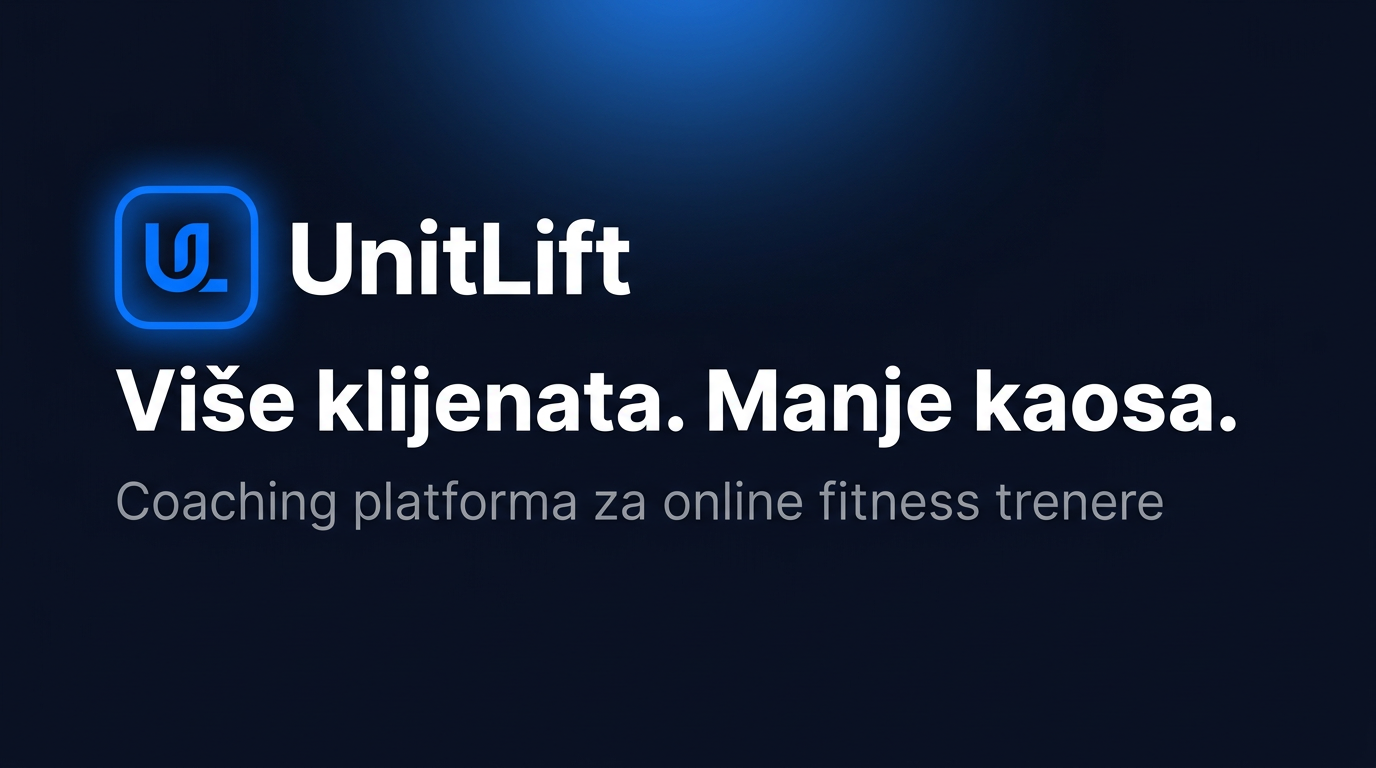
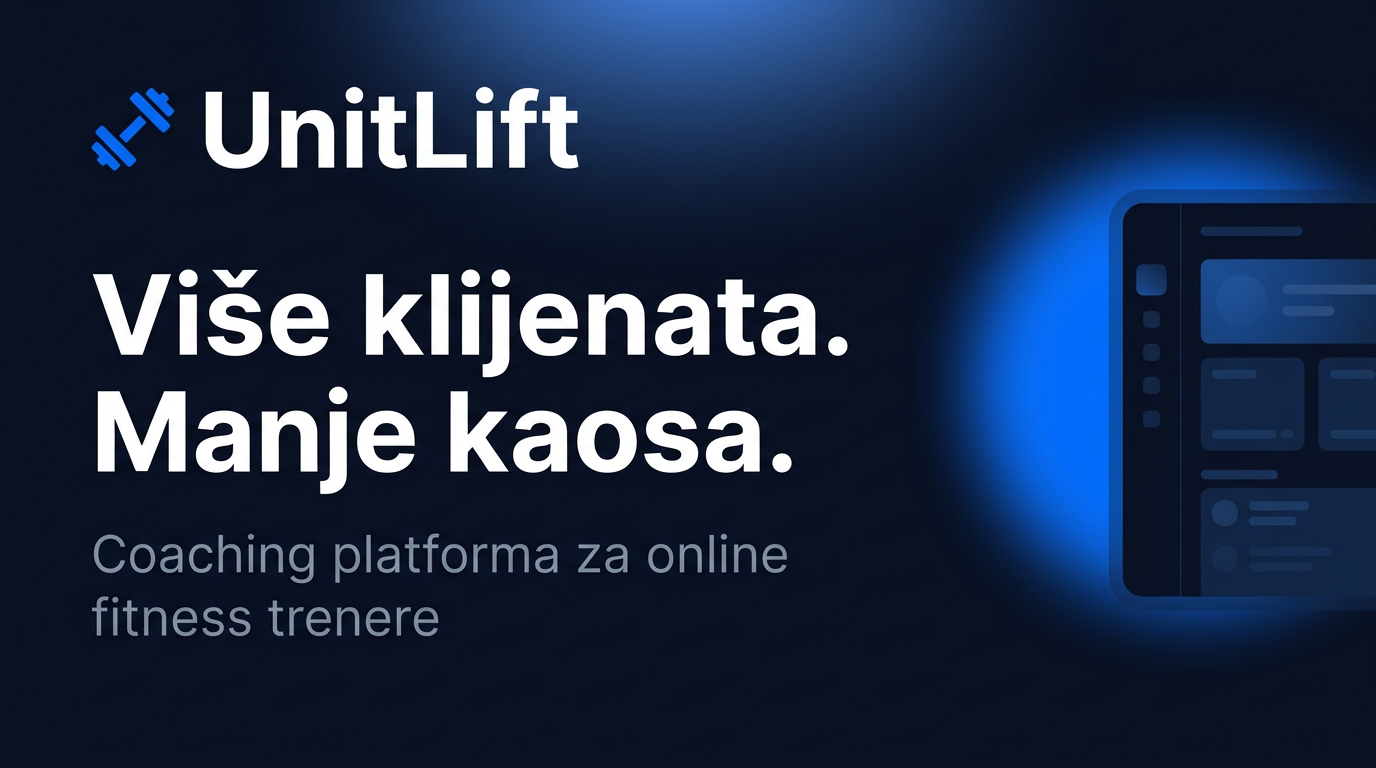
Landing v3: pricing cards equal height + muted inherited feats, white /cijene, new OG image, mobile UX fixes, design refresh, copywriting update, blog author fix
Made-with: Cursor

diff --git a/app/globals.css b/app/globals.css
@@ -45,7 +45,7 @@ nav{position:fixed;top:0;left:0;right:0;z-index:200;padding:0 5%;height:66px;dis
 
 /* HERO */
 .hero{position:relative;min-height:100vh;display:flex;flex-direction:column;align-items:center;justify-content:center;padding:110px 5% 70px;text-align:center;overflow:hidden}
-.hbg{position:absolute;inset:0;background:radial-gradient(ellipse 70% 55% at 50% 0%,rgba(0,102,255,.22),transparent 70%),radial-gradient(ellipse 35% 35% at 15% 60%,rgba(0,170,255,.07),transparent 60%),var(--bd);z-index:0}
+.hbg{position:absolute;inset:0;background:radial-gradient(ellipse 80% 60% at 50% -5%,rgba(0,102,255,.28),transparent 65%),radial-gradient(ellipse 40% 40% at 85% 30%,rgba(0,170,255,.09),transparent 55%),radial-gradient(ellipse 30% 30% at 10% 70%,rgba(0,85,238,.07),transparent 55%),var(--bd);z-index:0}
 .hgrid{position:absolute;inset:0;background-image:linear-gradient(rgba(255,255,255,.025) 1px,transparent 1px),linear-gradient(90deg,rgba(255,255,255,.025) 1px,transparent 1px);background-size:52px 52px;mask-image:radial-gradient(ellipse 80% 65% at 50% 25%,black,transparent);z-index:0}
 .hero>*{position:relative;z-index:1}
 .hbadge{display:inline-flex;align-items:center;gap:8px;background:rgba(0,102,255,.13);border:1px solid rgba(0,102,255,.35);border-radius:100px;padding:7px 18px;font-size:.8rem;color:#66aaff;font-weight:600;margin-bottom:28px;animation:fu .6s ease both}
@@ -155,9 +155,9 @@ nav{position:fixed;top:0;left:0;right:0;z-index:200;padding:0 5%;height:66px;dis
 
 /* STEPS */
 .steps{display:grid;grid-template-columns:repeat(3,1fr);gap:36px;margin-top:60px;position:relative}
-.steps::before{content:'';position:absolute;top:36px;left:22%;right:22%;height:1px;background:linear-gradient(90deg,var(--ba),#8899ff,var(--ba));opacity:.25}
+.steps::before{content:'';position:absolute;top:40px;left:20%;right:20%;height:2px;background:linear-gradient(90deg,transparent,var(--ba),#8899ff,var(--ba),transparent);opacity:.35}
 .step{text-align:center}
-.snum{width:68px;height:68px;border-radius:50%;background:linear-gradient(135deg,var(--ba),var(--bb));display:flex;align-items:center;justify-content:center;font-size:1.4rem;font-weight:800;margin:0 auto 22px;box-shadow:0 8px 28px rgba(0,102,255,.38);position:relative;z-index:1}
+.snum{width:80px;height:80px;border-radius:50%;background:linear-gradient(135deg,var(--ba),var(--bb));display:flex;align-items:center;justify-content:center;font-size:1.7rem;font-weight:800;margin:0 auto 22px;box-shadow:0 8px 32px rgba(0,102,255,.45),0 0 0 8px rgba(0,102,255,.08);position:relative;z-index:1}
 .stl{font-size:1.05rem;font-weight:700;color:var(--lt);margin-bottom:10px}
 .sdesc{font-size:.87rem;color:var(--ls);line-height:1.7}
 
@@ -172,12 +172,12 @@ nav{position:fixed;top:0;left:0;right:0;z-index:200;padding:0 5%;height:66px;dis
 .fdesc{font-size:.86rem;color:var(--ls);line-height:1.65}
 
 /* PRICING */
-.pg{display:grid;grid-template-columns:repeat(3,1fr);gap:22px;margin-top:60px;align-items:start}
-.pc{border-radius:20px;padding:40px 34px;position:relative;transition:transform .3s}
-.pc:hover{transform:translateY(-3px)}
+.pg{display:grid;grid-template-columns:repeat(3,1fr);gap:22px;margin-top:60px;align-items:stretch}
+.pc{border-radius:20px;padding:40px 34px;position:relative;transition:transform .3s,box-shadow .3s;display:flex;flex-direction:column}
+.pc:hover{transform:translateY(-4px);box-shadow:0 24px 60px rgba(0,0,0,.3)}
 .pc.basic{background:var(--w06);border:1px solid var(--w10)}
-.pc.pop{background:linear-gradient(140deg,rgba(0,102,255,.2),rgba(0,85,238,.13));border:1px solid rgba(0,102,255,.45);box-shadow:0 0 50px rgba(0,102,255,.18);transform:scale(1.035)}
-.pc.pop:hover{transform:scale(1.035) translateY(-3px)}
+.pc.pop{background:linear-gradient(140deg,rgba(0,102,255,.22),rgba(0,85,238,.14));border:1px solid rgba(0,102,255,.55);box-shadow:0 0 60px rgba(0,102,255,.22),0 0 0 1px rgba(0,102,255,.2);transform:scale(1.035)}
+.pc.pop:hover{transform:scale(1.035) translateY(-4px);box-shadow:0 0 80px rgba(0,102,255,.3),0 24px 60px rgba(0,0,0,.35)}
 .pc.elite{background:var(--w06);border:1px solid var(--w10)}
 .popbdg{position:absolute;top:-13px;left:50%;transform:translateX(-50%);background:linear-gradient(90deg,var(--ba),var(--bb));color:#fff;font-size:.7rem;font-weight:700;padding:5px 17px;border-radius:20px;white-space:nowrap;letter-spacing:.05em;text-transform:uppercase;z-index:1}
 .ptier{font-size:.75rem;font-weight:700;letter-spacing:.1em;text-transform:uppercase;color:#8899ff;margin-bottom:10px}
@@ -186,9 +186,11 @@ nav{position:fixed;top:0;left:0;right:0;z-index:200;padding:0 5%;height:66px;dis
 .pper{font-size:.8rem;color:var(--w50);margin-bottom:7px}
 .psave{display:inline-block;font-size:.7rem;color:#44cc88;background:rgba(68,204,136,.1);border:1px solid rgba(68,204,136,.28);padding:2px 10px;border-radius:20px;margin-bottom:22px}
 .pdiv{height:1px;background:var(--w10);margin:20px 0}
-.pfeats{list-style:none;display:flex;flex-direction:column;gap:9px;margin-bottom:28px}
+.pfeats{list-style:none;display:flex;flex-direction:column;gap:9px;margin-bottom:28px;flex:1}
 .pfeats li{display:flex;align-items:flex-start;gap:9px;font-size:.86rem;color:var(--w70);line-height:1.4}
+.pfeat-muted{opacity:.38}
 .pchk{width:17px;height:17px;border-radius:50%;background:rgba(68,204,136,.13);border:1px solid rgba(68,204,136,.35);display:flex;align-items:center;justify-content:center;font-size:.58rem;color:#44cc88;flex-shrink:0;margin-top:1px}
+.pchk-muted{background:rgba(255,255,255,.06);border-color:rgba(255,255,255,.15);color:rgba(255,255,255,.35)}
 
 /* BILLING TOGGLE */
 .billing-toggle{display:flex;align-items:center;justify-content:center;gap:12px;margin-top:28px}
@@ -200,13 +202,17 @@ nav{position:fixed;top:0;left:0;right:0;z-index:200;padding:0 5%;height:66px;dis
 .toggle-lbl.active{color:var(--w)}
 
 /* TESTIMONIALS CAROUSEL */
+/* Section background override for testimonials — subtle visual separation */
+#recenzije.sl{background:linear-gradient(180deg,#eceffe 0%,#f5f7ff 100%);position:relative}
+#recenzije.sl::before{content:'';position:absolute;inset:0;background-image:radial-gradient(circle,rgba(0,102,255,.06) 1px,transparent 1px);background-size:28px 28px;pointer-events:none}
 .tcar-wrap{margin-top:44px}
 .tcar-vp{overflow:hidden;padding:8px 0 14px;cursor:grab;user-select:none}
 .tcar-vp:active{cursor:grabbing}
 /* Track: left padding aligns first visible card with .con; slides overflow to the right */
 .tcar-track{display:flex;padding-left:5%}
 .tcar-slide{box-sizing:border-box;padding:0 9px;flex-shrink:0}
-.tcard{background:#fff;border:1px solid var(--lb);border-radius:var(--r);padding:26px 24px;position:relative;height:100%;box-shadow:0 2px 14px rgba(0,102,255,.05)}
+.tcard{background:#fff;border:1px solid var(--lb);border-radius:var(--r);padding:26px 24px;position:relative;height:100%;box-shadow:0 4px 20px rgba(0,102,255,.08);transition:box-shadow .25s,transform .25s}
+.tcard:hover{box-shadow:0 8px 32px rgba(0,102,255,.14);transform:translateY(-2px)}
 .tcard::before{content:'\201C';position:absolute;top:12px;right:18px;font-size:4rem;line-height:1;color:rgba(0,102,255,.07);font-weight:800}
 .tbadge-row{display:flex;align-items:center;justify-content:space-between;margin-bottom:14px}
 .tbadge{display:inline-flex;align-items:center;padding:3px 10px;border-radius:100px;font-size:.73rem;font-weight:700;letter-spacing:.02em}
@@ -237,8 +243,9 @@ nav{position:fixed;top:0;left:0;right:0;z-index:200;padding:0 5%;height:66px;dis
 .faq-item.open .faq-a{display:block}
 
 /* CTA */
-.ctasec{background:linear-gradient(135deg,var(--bm),var(--bdk));border-top:1px solid rgba(0,102,255,.28);border-bottom:1px solid rgba(0,102,255,.28);padding:88px 5%;text-align:center;position:relative;overflow:hidden}
-.ctasec::before{content:'';position:absolute;inset:0;background:radial-gradient(ellipse 55% 75% at 50% 50%,rgba(0,102,255,.28),transparent 70%)}
+.ctasec{background:linear-gradient(150deg,var(--bm),var(--bdk) 60%,#061030);border-top:1px solid rgba(0,102,255,.35);border-bottom:1px solid rgba(0,102,255,.35);padding:96px 5%;text-align:center;position:relative;overflow:hidden}
+.ctasec::before{content:'';position:absolute;inset:0;background:radial-gradient(ellipse 60% 80% at 50% 50%,rgba(0,102,255,.32),transparent 68%)}
+.ctasec::after{content:'';position:absolute;inset:0;background-image:linear-gradient(rgba(255,255,255,.018) 1px,transparent 1px),linear-gradient(90deg,rgba(255,255,255,.018) 1px,transparent 1px);background-size:52px 52px;mask-image:radial-gradient(ellipse 70% 70% at 50% 50%,black,transparent)}
 .ctasec>*{position:relative;z-index:1}
 .ctat{font-size:clamp(2rem,4vw,3.2rem);font-weight:800;letter-spacing:-1px;line-height:1.08;margin-bottom:18px}
 .ctas{font-size:1.05rem;color:var(--w50);max-width:460px;margin:0 auto 36px;line-height:1.7}
@@ -343,15 +350,24 @@ footer{background:#060d1e;border-top:1px solid var(--w06);padding:60px 5% 36px}
   .ctabtns .btn{width:100%;min-height:48px}
   .con{padding:0 4%}
   .sp{padding:64px 0}
-  .mob-phones{flex-direction:column;align-items:center}
-  .mob-phone.trainer,.mob-phone.client{transform:none;margin:0;width:200px}
+  /* Phone mockup — single phone on mobile */
+  .mob-phone.client{display:none}
+  .mob-phone.trainer{transform:none;margin:0;width:min(220px,70vw)}
   .mob-store-row{flex-direction:column}
   .mob-store-btn{min-height:48px;width:100%;justify-content:center}
-  /* Footer mobile */
+  /* Footer mobile — improved layout */
   .fg2{grid-template-columns:1fr 1fr}
   .fg2>div:first-child{grid-column:1/-1}
+  .fg2>div:last-child{grid-column:1/-1}
+  .fg2>div:last-child .fls{flex-direction:row;flex-wrap:wrap;gap:6px 20px}
   .fsocial{justify-content:flex-start}
   .payrow{justify-content:flex-start;flex-wrap:wrap;gap:8px}
+  footer{padding:40px 5% 28px}
+  .fbot{padding-top:20px;gap:12px}
+  .fcopy{font-size:.7rem}
+  /* Trust bar — 2x2 grid */
+  .trust-bar{display:grid;grid-template-columns:1fr 1fr;gap:14px 20px;justify-items:start;padding:20px 5%}
+  .ti{font-size:.76rem}
   /* Testimonials mobile — static scroll */
   .tcar-vp{overflow:visible}
   .tcar-track{flex-direction:column;padding-left:0;gap:14px}

diff --git a/components/legal/PricingPage.tsx b/components/legal/PricingPage.tsx
@@ -48,47 +48,49 @@ export default function PricingPage() {
     }
   }
 
+  const baseFeats = isHr
+    ? ['Planovi treninga i prehrane', 'Check-in praćenje s automatskim podsjetnicima', 'Chat s klijentima', 'Mobilna app za klijente (besplatna)', 'Vidi odmah tko je platio i koliko si zaradio', 'Prati što ti je važno — koraci, san, težina, raspoloženje']
+    : ['Training and nutrition plans', 'Check-in tracking with automatic reminders', 'Client chat', 'Client mobile app (free)', 'See instantly who paid and how much you earned', 'Track what matters — steps, sleep, weight, mood']
+
   const tiers = isHr
     ? [
         {
           name: 'Starter', price: 29, clients: 'Do 15 klijenata', popular: false,
-          feats: ['Do 15 aktivnih klijenata', 'Planovi treninga i prehrane', 'Check-in praćenje s automatskim podsjetnicima', 'Chat s klijentima', 'Mobilna app za klijente (besplatna)', 'Financijski pregled i praćenje plaćanja', 'Prilagodljivi parametri praćenja'],
-          btn: 'Kreni besplatno',
+          feats: ['Do 15 aktivnih klijenata', 'Planovi treninga i prehrane', 'Check-in praćenje s automatskim podsjetnicima', 'Chat s klijentima', 'Mobilna app za klijente (besplatna)', 'Vidi odmah tko je platio i koliko si zaradio', 'Prati što ti je važno — koraci, san, težina, raspoloženje'],
+          btn: 'Kreni besplatno', note: null,
         },
         {
           name: 'Pro', price: 59, clients: 'Do 50 klijenata', popular: true,
-          feats: ['Do 50 aktivnih klijenata', 'Sve iz Starter plana', 'Vlastiti logo i boje u klijentskoj app', 'Prioritetna podrška'],
-          btn: 'Kreni besplatno',
+          feats: ['Do 50 aktivnih klijenata', 'Vlastiti logo i boje u klijentskoj app'],
+          btn: 'Kreni besplatno', note: null,
         },
         {
           name: 'Scale', price: 99, clients: 'Do 150 klijenata', popular: false,
-          feats: ['Do 150 aktivnih klijenata', 'Sve iz Pro plana', 'Više od 150 klijenata: +€10/mj za svakih dodatnih 25'],
-          btn: 'Kreni besplatno',
-          note: 'Više od 150 klijenata? +€10/mj za svakih dodatnih 25.',
+          feats: ['Do 150 aktivnih klijenata', 'Vlastiti logo i boje u klijentskoj app'],
+          btn: 'Kreni besplatno', note: 'Više od 150 klijenata? +€10/mj za svakih dodatnih 25.',
         },
       ]
     : [
         {
           name: 'Starter', price: 29, clients: 'Up to 15 clients', popular: false,
-          feats: ['Up to 15 active clients', 'Training and nutrition plans', 'Check-in tracking with automatic reminders', 'Client chat', 'Client mobile app (free)', 'Financial overview and payment tracking', 'Custom tracking parameters'],
-          btn: 'Get started free',
+          feats: ['Up to 15 active clients', 'Training and nutrition plans', 'Check-in tracking with automatic reminders', 'Client chat', 'Client mobile app (free)', 'See instantly who paid and how much you earned', 'Track what matters — steps, sleep, weight, mood'],
+          btn: 'Get started free', note: null,
         },
         {
           name: 'Pro', price: 59, clients: 'Up to 50 clients', popular: true,
-          feats: ['Up to 50 active clients', 'Everything in Starter', 'Custom logo and colors in client app', 'Priority support'],
-          btn: 'Get started free',
+          feats: ['Up to 50 active clients', 'Custom logo and colors in client app'],
+          btn: 'Get started free', note: null,
         },
         {
           name: 'Scale', price: 99, clients: 'Up to 150 clients', popular: false,
-          feats: ['Up to 150 active clients', 'Everything in Pro', 'More than 150 clients: +€10/mo per additional 25'],
-          btn: 'Get started free',
-          note: 'More than 150 clients? +€10/mo for every additional 25.',
+          feats: ['Up to 150 active clients', 'Custom logo and colors in client app'],
+          btn: 'Get started free', note: 'More than 150 clients? +€10/mo for every additional 25.',
         },
       ]
 
   const advantages = isHr
-    ? ['Check-in automatizacija', 'Mobilna app za klijente (besplatna)', 'Financijski pregled', 'Vlastiti branding', 'Sve u jednom (nema WhatsApp, Excel, PDF)']
-    : ['Check-in automation', 'Client mobile app (free)', 'Financial overview', 'Own branding', 'All-in-one (no WhatsApp, Excel, PDFs)']
+    ? ['Klijenti dobiju podsjetnik — ti ne moraš ništa slati ručno', 'Mobilna app za klijente (besplatna)', 'Vidi odmah tko je platio i koliko si zaradio', 'Vlastiti branding (Pro i Scale)', 'Planovi, plaćanja i komunikacija — na jednom mjestu']
+    : ['Clients get reminders — you never send anything manually', 'Client mobile app (free)', 'See instantly who paid and how much you earned', 'Custom branding (Pro & Scale)', 'Plans, payments and communication — in one place']
 
   return (
     <div className="legal-root">
@@ -151,15 +153,15 @@ export default function PricingPage() {
       </div>
 
       {/* Body */}
-      <div style={{ background: 'var(--bdk)', padding: '52px 5% 80px', flex: 1 }}>
+      <div style={{ background: '#f5f7ff', padding: '52px 5% 80px', flex: 1 }}>
         <div style={{ maxWidth: '1100px', margin: '0 auto' }}>
 
           {/* Intro */}
           <div style={{ textAlign: 'center', marginBottom: '48px' }}>
-            <h2 style={{ fontSize: 'clamp(1.5rem,2.8vw,2.2rem)', fontWeight: 800, color: '#fff', marginBottom: '12px', letterSpacing: '-.5px' }}>
+            <h2 style={{ fontSize: 'clamp(1.5rem,2.8vw,2.2rem)', fontWeight: 800, color: 'var(--lt)', marginBottom: '12px', letterSpacing: '-.5px' }}>
               {isHr ? 'Koji plan odgovara tebi?' : 'Which plan suits you?'}
             </h2>
-            <p style={{ color: 'rgba(255,255,255,.6)', fontSize: '1rem', maxWidth: '520px', margin: '0 auto', lineHeight: 1.7 }}>
+            <p style={{ color: 'var(--ls)', fontSize: '1rem', maxWidth: '520px', margin: '0 auto', lineHeight: 1.7 }}>
               {isHr
                 ? 'Svi planovi uključuju iste funkcije — jedina razlika je broj klijenata koje možeš voditi.'
                 : 'All plans include the same features — the only difference is the number of clients you can manage.'}
@@ -179,6 +181,12 @@ export default function PricingPage() {
                   {tier.feats.map((feat, j) => (
                     <li key={j}><span className="pchk">✓</span>{feat}</li>
                   ))}
+                  {i > 0 && baseFeats.map((feat, j) => (
+                    <li key={`base-${j}`} className="pfeat-muted">
+                      <span className="pchk pchk-muted">✓</span>
+                      {feat}
+                    </li>
+                  ))}
                 </ul>
                 <button
                   onClick={() => handleCheckout(PLANS[i])}
@@ -197,13 +205,13 @@ export default function PricingPage() {
             ))}
           </div>
 
-          <p style={{ textAlign: 'center', marginTop: '28px', color: 'rgba(255,255,255,.5)', fontSize: '.83rem' }}>
+          <p style={{ textAlign: 'center', marginTop: '28px', color: 'var(--ls)', fontSize: '.83rem' }}>
             {isHr ? 'Svi planovi uključuju 14-dnevno besplatno probno razdoblje. Kartica potrebna za aktivaciju.' : 'All plans include a 14-day free trial. Card required for activation.'}
           </p>
 
           {/* Advantages */}
-          <div className="pp-advantages">
-            <h2 className="pp-adv-h2">
+          <div className="pp-advantages" style={{ background: '#fff', border: '1px solid var(--lb)' }}>
+            <h2 className="pp-adv-h2" style={{ color: 'var(--lt)' }}>
               {isHr ? 'Zašto treneri biraju UnitLift' : 'Why coaches choose UnitLift'}
             </h2>
             <div className="pp-adv-grid">
@@ -217,7 +225,7 @@ export default function PricingPage() {
           </div>
 
           {/* Partner section */}
-          <div className="pp-partner">
+          <div className="pp-partner" style={{ background: 'var(--bdk)' }}>
             <div className="pp-partner-inner">
               <div>
                 <h3 className="pp-partner-h">{isHr ? 'Trener si? Preporuči UnitLift.' : 'Are you a coach? Recommend UnitLift.'}</h3>

diff --git a/lib/blog/posts-en.ts b/lib/blog/posts-en.ts
@@ -1,4 +1,4 @@
-import type { BlogPost } from './types'
+import type { BlogPost } from './types'
 
 export const postsEn: BlogPost[] = [
   {
@@ -9,7 +9,7 @@ export const postsEn: BlogPost[] = [
     categorySlug: 'guide',
     readTime: 6,
     publishedAt: 'March 14, 2025',
-    author: 'Leon Lišinski',
+    author: 'Leon',
     authorRole: 'Online fitness trainer & founder UnitLift',
     content: [
       { type: 'paragraph', text: 'Building a client base is one of the biggest challenges every online fitness coach faces. The good news: you don\'t need expensive ads — you need the right strategy and consistency.' },
@@ -36,7 +36,7 @@ export const postsEn: BlogPost[] = [
     categorySlug: 'tools',
     readTime: 4,
     publishedAt: 'March 11, 2025',
-    author: 'Leon Lišinski',
+    author: 'Leon',
     authorRole: 'Online fitness trainer & founder UnitLift',
     content: [
       { type: 'paragraph', text: 'I started with Excel. One sheet per client, formulas for calorie calculation, color-coding for each week. It looked clean — until I had 12 clients at the same time.' },
@@ -65,7 +65,7 @@ export const postsEn: BlogPost[] = [
     categorySlug: 'clients',
     readTime: 5,
     publishedAt: 'March 7, 2025',
-    author: 'Leon Lišinski',
+    author: 'Leon',
     authorRole: 'Online fitness trainer & founder UnitLift',
     content: [
       { type: 'paragraph', text: 'The check-in is the heart of online coaching. Without regular and quality tracking, plans remain just theory. Here\'s how to make a check-in that actually works.' },
@@ -97,7 +97,7 @@ export const postsEn: BlogPost[] = [
     categorySlug: 'growth',
     readTime: 7,
     publishedAt: 'March 1, 2025',
-    author: 'Leon Lišinski',
+    author: 'Leon',
     authorRole: 'Online fitness trainer & founder UnitLift',
     content: [
       { type: 'paragraph', text: 'Pricing is often the question where coaches get most stuck. Fear of rejection, uncertainty about one\'s own worth, comparison to competitors — all of this leads to the same outcome: underpricing.' },
@@ -129,7 +129,7 @@ export const postsEn: BlogPost[] = [
     categorySlug: 'guide',
     readTime: 6,
     publishedAt: 'February 14, 2025',
-    author: 'Leon Lišinski',
+    author: 'Leon',
     authorRole: 'Online fitness trainer & founder UnitLift',
     content: [
       { type: 'paragraph', text: 'Automation has a bad reputation in coaching. Coaches fear losing the "personal touch" and becoming robots that send mailers. But there\'s a fundamental difference between automating processes and automating relationships.' },

diff --git a/hooks/useReveal.ts b/hooks/useReveal.ts
@@ -6,16 +6,26 @@ export function useReveal<T extends HTMLElement = HTMLElement>() {
   useEffect(() => {
     const node = ref.current
     if (!node) return
+
+    // Fallback: ensure all elements become visible after 1.5s
+    // in case IntersectionObserver doesn't fire (e.g. small viewports)
+    const fallback = setTimeout(() => {
+      node.querySelectorAll('.rev').forEach((el) => el.classList.add('vis'))
+    }, 1500)
+
     const observer = new IntersectionObserver(
       (entries) => {
         entries.forEach((e) => {
           if (e.isIntersecting) e.target.classList.add('vis')
         })
       },
-      { threshold: 0.12 }
+      { threshold: 0.05 }
     )
     node.querySelectorAll('.rev').forEach((el) => observer.observe(el))
-    return () => observer.disconnect()
+    return () => {
+      clearTimeout(fallback)
+      observer.disconnect()
+    }
   }, [])
 
   return ref

diff --git a/components/landing/Pricing.tsx b/components/landing/Pricing.tsx
@@ -16,6 +16,7 @@ export default function Pricing() {
     feats: string[]
     btn: string
   }>
+  const baseFeats = t.raw('baseFeats') as string[]
   const [loading, setLoading] = useState<string | null>(null)
   const ref = useReveal<HTMLElement>()
 
@@ -69,6 +70,12 @@ export default function Pricing() {
                 {tier.feats.map((feat, j) => (
                   <li key={j}>
                     <span className="pchk">✓</span>
+                    {feat}
+                  </li>
+                ))}
+                {i > 0 && baseFeats.map((feat, j) => (
+                  <li key={`base-${j}`} className="pfeat-muted">
+                    <span className="pchk pchk-muted">✓</span>
                     {feat}
                   </li>
                 ))}
